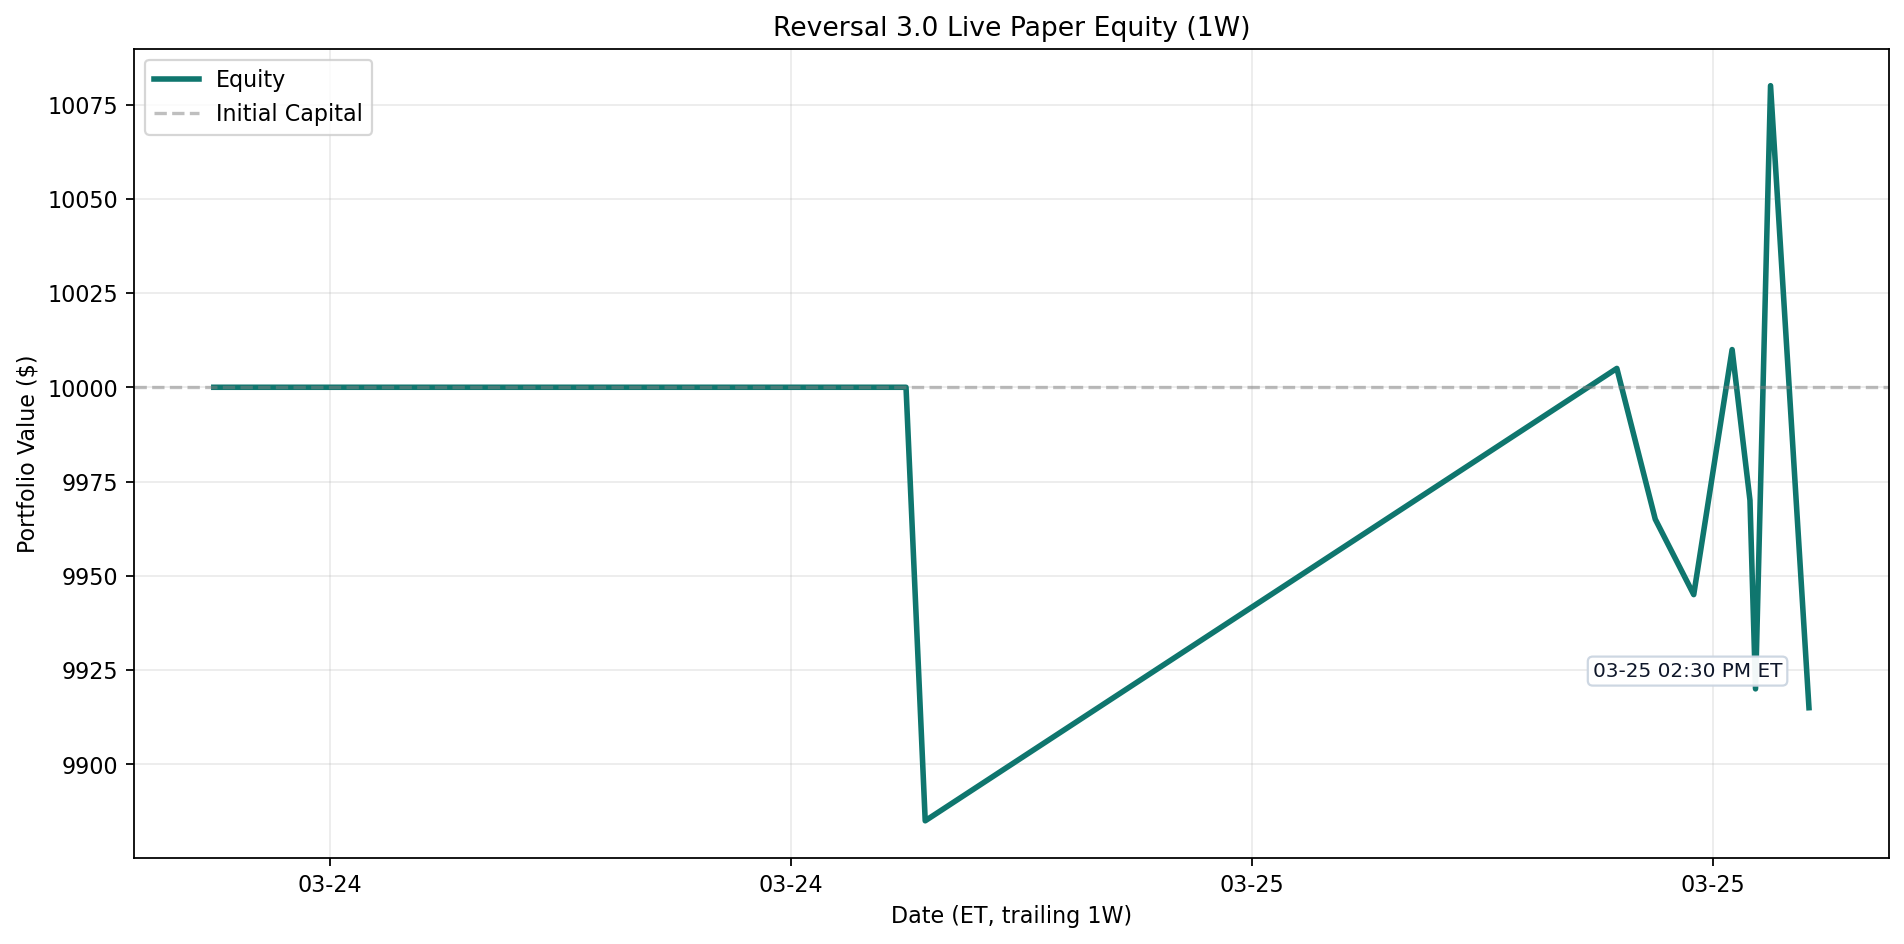
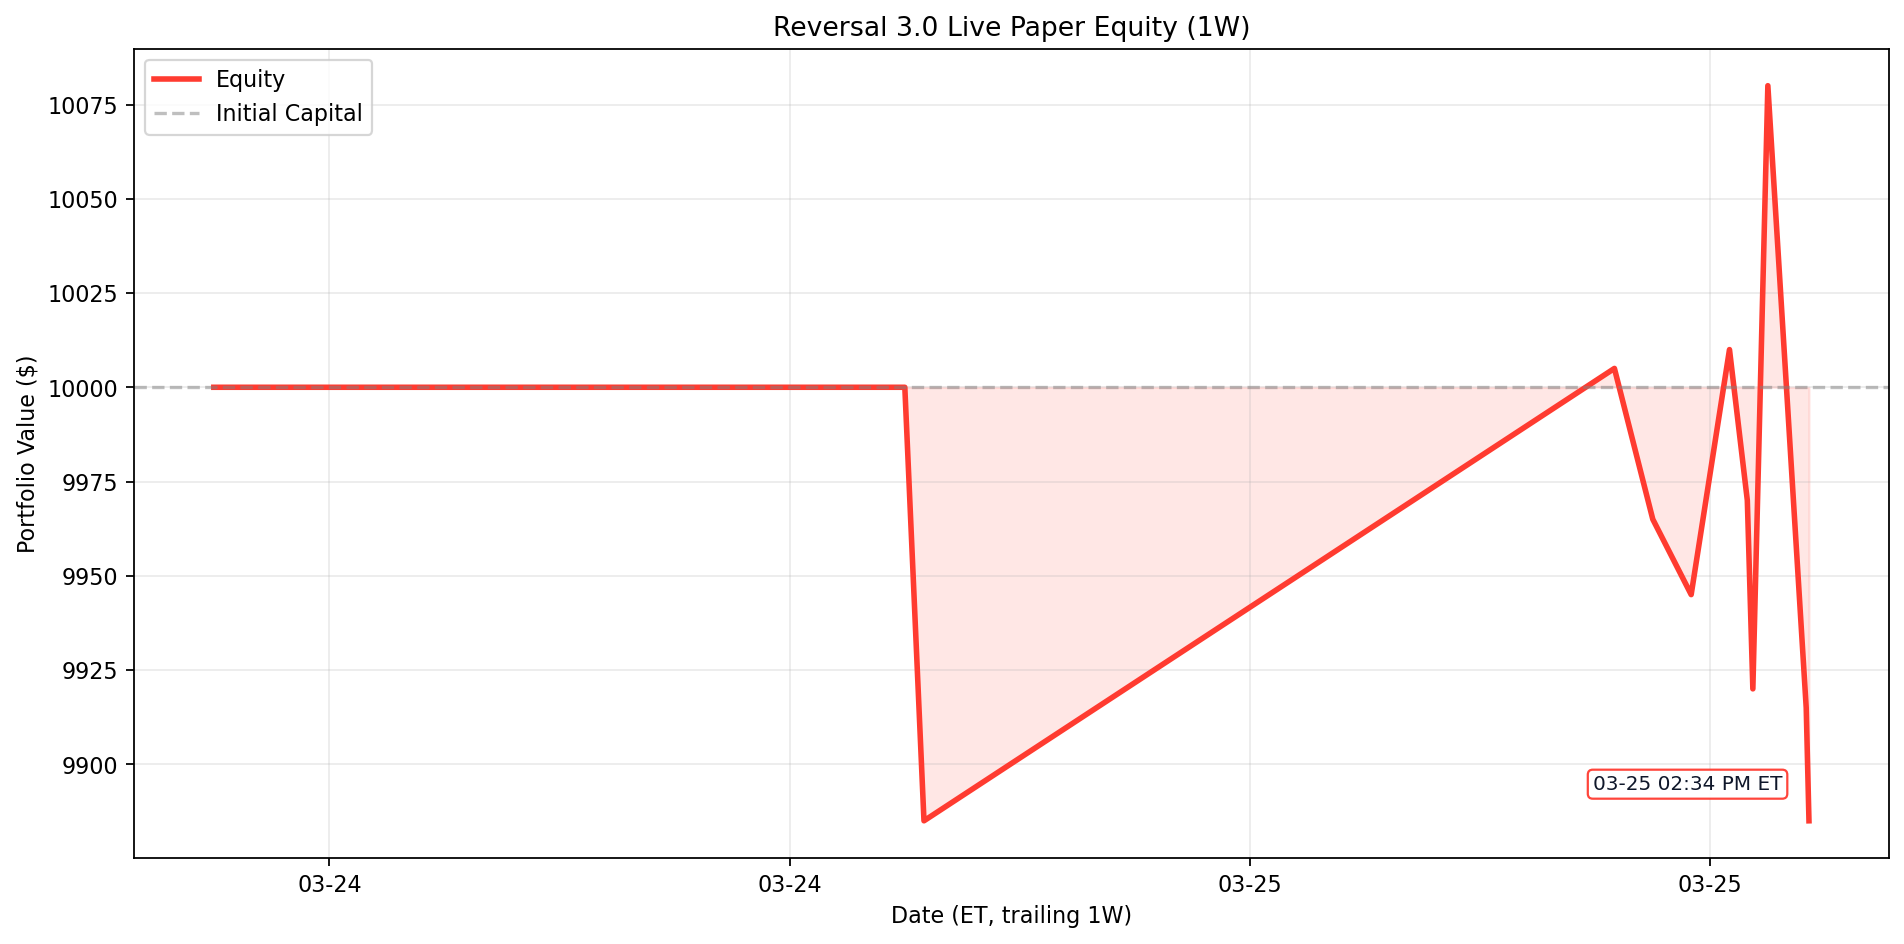
Update Reversal 3.0 live paper test 2026-03-25 14:34 ET

diff --git a/results/reversal_3_0_live/README.md b/results/reversal_3_0_live/README.md
@@ -1,6 +1,6 @@
 # Reversal 3.0 Live Paper Test
 
-Last updated (ET): `2026-03-25 14:30:01 EDT`
+Last updated (ET): `2026-03-25 14:34:20 EDT`
 Last processed slot: `manage_1430`
 
 ## Active Configuration
@@ -20,16 +20,16 @@ Last processed slot: `manage_1430`
 ## Portfolio Snapshot
 
 - Cash: `$5,455.00`
-- Equity: `$9,915.00`
+- Equity: `$9,885.00`
 - Realized PnL: `$0.00`
-- Unrealized PnL: `$-85.00`
+- Unrealized PnL: `$-115.00`
 - Open positions: `1`
 
 ## Open Positions
 
 ```text
 ticker     contract_symbol entry_trade_date  business_days_held  entry_option_price  current_option_price  entry_spot  current_spot  unrealized_pnl  unrealized_return_pct  success_rate  matched_signals  current_drop_pct  entry_iv_pct  current_iv_pct  rolling_sigma_20d_pct
-  AVGO AVGO260515C00320000       2026-03-24                   1               22.72                  22.3      318.55        318.87           -85.0                  -1.87         93.33               30              1.23         48.32           47.96                   39.5
+  AVGO AVGO260515C00320000       2026-03-24                   1               22.72                 22.15      318.55        318.98          -115.0                  -2.53         93.33               30              1.23         48.32           47.68                   39.5
 ```
 
 ## Today's Closed Trades (2026-03-25)
@@ -40,24 +40,25 @@ _None_
 
 ```text
 ticker  success_rate_%  matched_signals  current_drop_%  target_rebound_$  target_price  rolling_sigma_20d_%  call_candidate
-  FANG          100.00               23            0.84              1.17        196.56                29.12            True
-   WDC           97.37               38            0.61              1.28        300.50                74.01            True
-   STX           97.30               37            0.88              2.62        423.10                70.55            True
-  AMAT           91.43               35            0.52              1.35        373.41                51.46            True
-  CDNS           90.24               41            0.73              1.45        283.70                27.43            True
-  KLAC           89.19               37            0.54              5.97       1563.63                48.83            True
-    MU           88.89               18            3.45              9.56        391.43                67.96            True
-  SNPS           87.50               24            1.95              5.68        413.18                37.59            True
-  CTAS           85.71               21            1.05              1.31        177.57                29.68            True
-  CRWD           84.62               26            1.51              4.16        391.21                45.29            True
-  CTSH           84.38               32            0.62              0.26         60.13                32.06            True
-  BKNG           82.86               35            0.67             20.23       4281.98                41.15            True
+  FANG          100.00               26            0.70              0.96        196.65                29.12            True
+   STX           97.30               37            0.97              2.88        422.99                70.55            True
+   WDC           97.14               35            0.92              1.93        300.22                74.01            True
+  AMAT           91.18               34            0.63              1.66        373.28                51.46            True
+  CDNS           90.00               40            0.81              1.61        283.63                27.43            True
+  KLAC           89.19               37            0.64              6.97       1563.20                48.83            True
+    MU           88.89               18            3.42              9.46        391.48                67.96            True
+  SNPS           87.50               24            1.86              5.41        413.30                37.59            True
+   BKR           87.10               31            0.57              0.25         63.38                40.11            True
+ CMCSA           84.21               19            1.57              0.32         29.08                27.42            True
+  CRWD           84.00               25            1.56              4.28        391.15                45.29            True
+  CTSH           83.33               30            0.69              0.29         60.12                32.06            True
 ```
 
 ## Recent Events
 
 ```text
                     timestamp_et         slot   event_type                                                                                                                                                                             detail
+2026-03-25T14:34:20.011472-04:00  manage_1430 slot_skipped                                                                                                                                                    {"reason": "already_processed"}
 2026-03-25T09:30:01.175501-04:00 data_refresh data_refresh                                                                                                                                                                      {'saved': 97}
 2026-03-24T15:00:05.740108-04:00   entry_1500        entry {"allocated_cash": 4545.0, "contract_symbol": "AVGO260515C00320000", "contracts": 2, "entry_option_price": 22.725, "matched_signals": 30, "success_rate": 93.33, "ticker": "AVGO"}
 2026-03-24T13:30:05.751589-04:00  manage_1330 slot_skipped                                                                                                                                                    {"reason": "already_processed"}

diff --git a/README.md b/README.md
@@ -3,15 +3,15 @@
 <!-- reversal-3.0-live:start -->
 ## Reversal 3.0 Live Paper Test
 
-- Last updated (ET): `2026-03-25 14:30:01 EDT`
-- Equity: `$9,915.00` | Realized: `$0.00` | Unrealized: `$-85.00` | Open positions: `1`
+- Last updated (ET): `2026-03-25 14:34:20 EDT`
+- Equity: `$9,885.00` | Realized: `$0.00` | Unrealized: `$-115.00` | Open positions: `1`
 - Today closed trades: `0`
 - Current slot: `manage_1430`
 - Chart: trailing `1W` with ET timestamps
 
 ```text
 ticker     contract_symbol  current_option_price  unrealized_pnl  unrealized_return_pct  business_days_held
-  AVGO AVGO260515C00320000                  22.3           -85.0                  -1.87                   1
+  AVGO AVGO260515C00320000                 22.15          -115.0                  -2.53                   1
 ```
 
 ![Reversal 3.0 Live Equity 1W](assets/reversal_3_0_live_equity.png)
